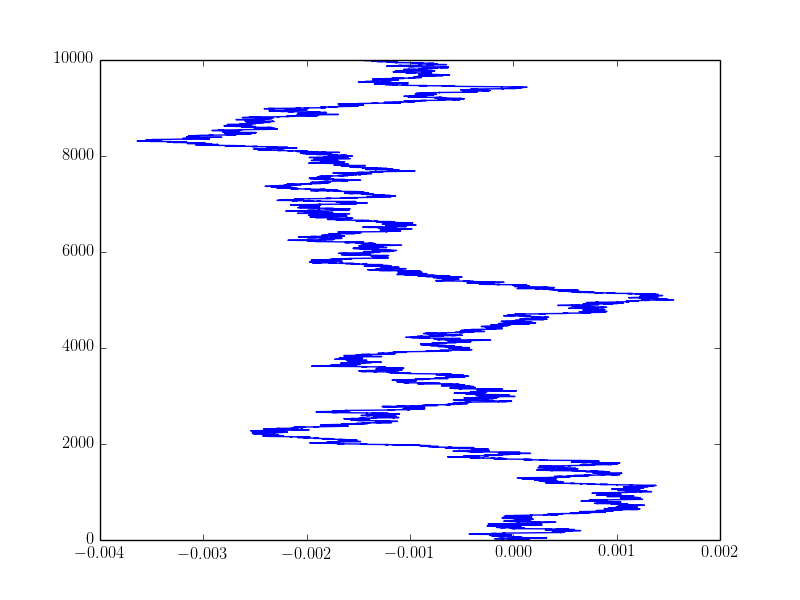
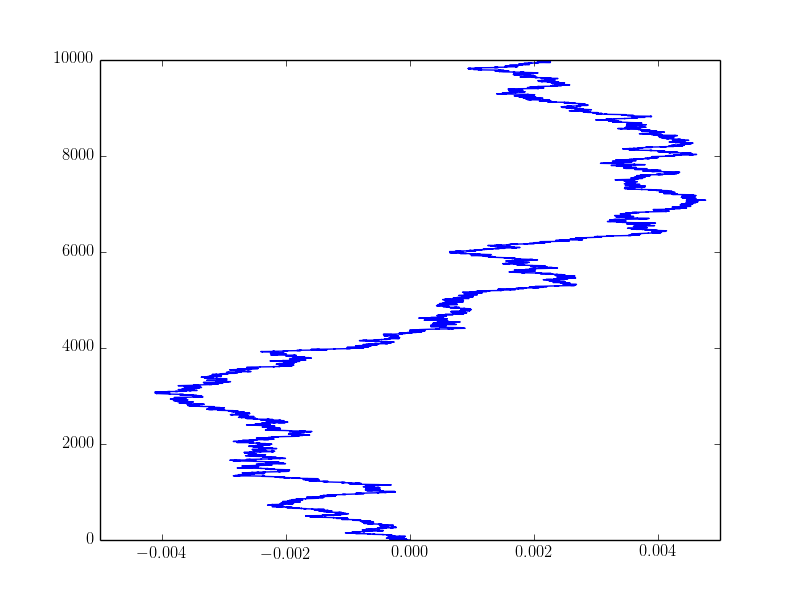
Working on assignment 1. Simulation now runs on a number of particles simultaneously. Gauss generator, potential and force functions on operate on arrays. Added a MATLAB script for animated histogram of particle positions. Cleaned some old code. Makefile now supports automated scp of image files to 

diff --git a/assignments/a1/animation_script.m b/assignments/a1/animation_script.m
@@ -1,0 +1,16 @@
+% Animated histogram of particle data
+% using MATLAB
+
+% Asumes data is loaded into: particles
+
+[len, number] = size(particles);
+figure(1);
+clf;
+axis([-0.05, 0.05, 0, 1000]);
+hold all;
+for i = 1 : len
+    cla(gca);
+    hist(particles(i, :), -0.05:0.004:0.05);
+    drawnow;
+    pause(0.001);
+end

diff --git a/assignments/a1/visual.py b/assignments/a1/visual.py
@@ -1,7 +1,7 @@
 #!/usr/bin/env python
 
 # Reads and plots data from:
-file_name = 'diffusion';
+file_name = 'biased_diffusion';
 
 import numpy
 from numpy import linspace
